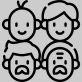
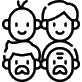
fix(admin/public-data): 페이지네이션 클릭영역 확대, 주거 아이콘 배경 제거
- 관리자 회원 페이지네이션: 페이지 숫자의 클릭 히트박스가 글리프
  크기(~8px 폭)뿐이라 클릭이 거의 안 먹히던 문제 — padding/min-width로
  히트영역 ~28x32px 확보 + hover 피드백 추가 (page 1→2→3→10 실클릭 검증)
- 공공데이터 주거 카테고리 아이콘 9종: 회색 배경이 박혀 있어 그림자
  박스처럼 보이던 것 투명 배경으로 정리(다른 카테고리와 통일)

diff --git a/src/admin/styles/dashboard_new.css b/src/admin/styles/dashboard_new.css
@@ -311,17 +311,34 @@
     display: flex;
     justify-content: center;
     align-items: center;
-    gap: 20px;
+    gap: 4px;
     padding: 30px 0;
     font-size: 16px;
     color: #999;
 }
 
+/* 숫자 글자 폭(6~9px)만 클릭 가능하고 나머지는 gap(dead zone)이라 실제 클릭이
+   잘 안 먹는 문제(버튼처럼 보이지만 히트영역이 지나치게 좁음) — 패딩으로 히트영역 확장 */
 .page-num-new {
     cursor: pointer;
+    padding: 8px 10px;
+    min-width: 16px;
+    text-align: center;
+    border-radius: 6px;
+    line-height: 1;
+    transition: background-color 0.15s, color 0.15s;
+}
+
+.page-num-new:hover {
+    background-color: #f0f0f0;
+    color: #666;
 }
 
 .page-num-new.active {
     color: #23BDBB;
     font-weight: 700;
+}
+
+.page-num-new.active:hover {
+    background-color: transparent;
 }
